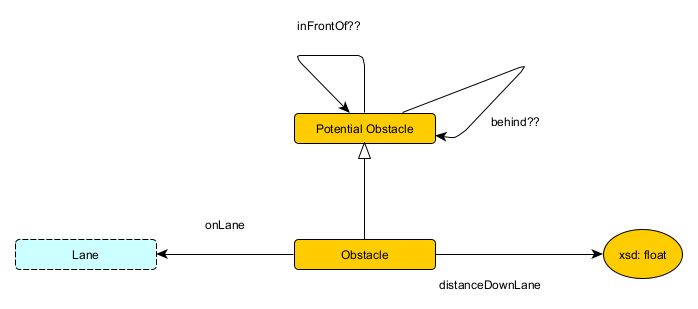
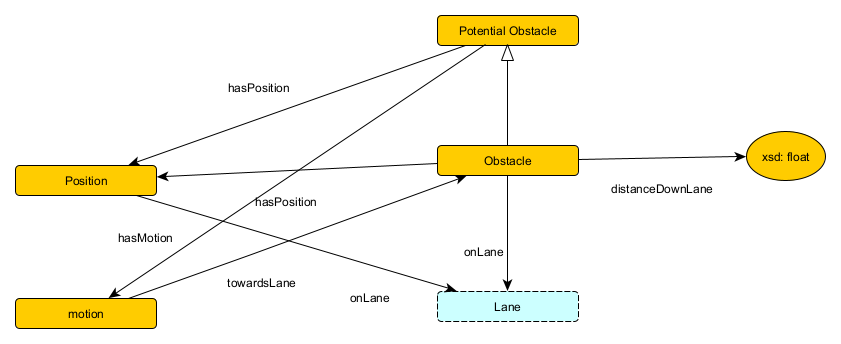
Updated the potentialObstacle graph, adn added a list of manuevers to keynotions

diff --git a/key-notions.md b/key-notions.md
@@ -71,3 +71,17 @@ Attempt to Express Traffic Instructions with Axioms (Incomplete, might not work 
 * "If a Lane contains a Turn Lane Marking, then Turn maneuvers from Parallel Lanes that do not contain Turn Lane Markings are not allowed." (?)
   * Also need to express that turn may be allowed only in one direction at that point
 * "If a Lane contains a Turn Only Lane Marking, then Continue(?) maneuvers from that Lane are not allowed."
+
+List of possible manuevers:
+* Move Forward: continue on current lane
+* Merge Left: change lanes to directlyLeftOf outgoing lane
+* Merge Right: change lanes to directlyRightOf outgoing lane
+* Turn Left: change lane to a left outgoing lane at an intersection
+* Turn Right: change lane to a right outgoing lane at an intersection
+* Stop: Come to a full stop
+* Stop at designated spot adn continue: Stop at designated area and proceed with caution
+* U-Turn: change lanes to directlyLeftOf incoming lane
+* Reverse: traverse backwards on current lane
+* Proceed with caution
+* Decrease Speed
+* Increase Speed
